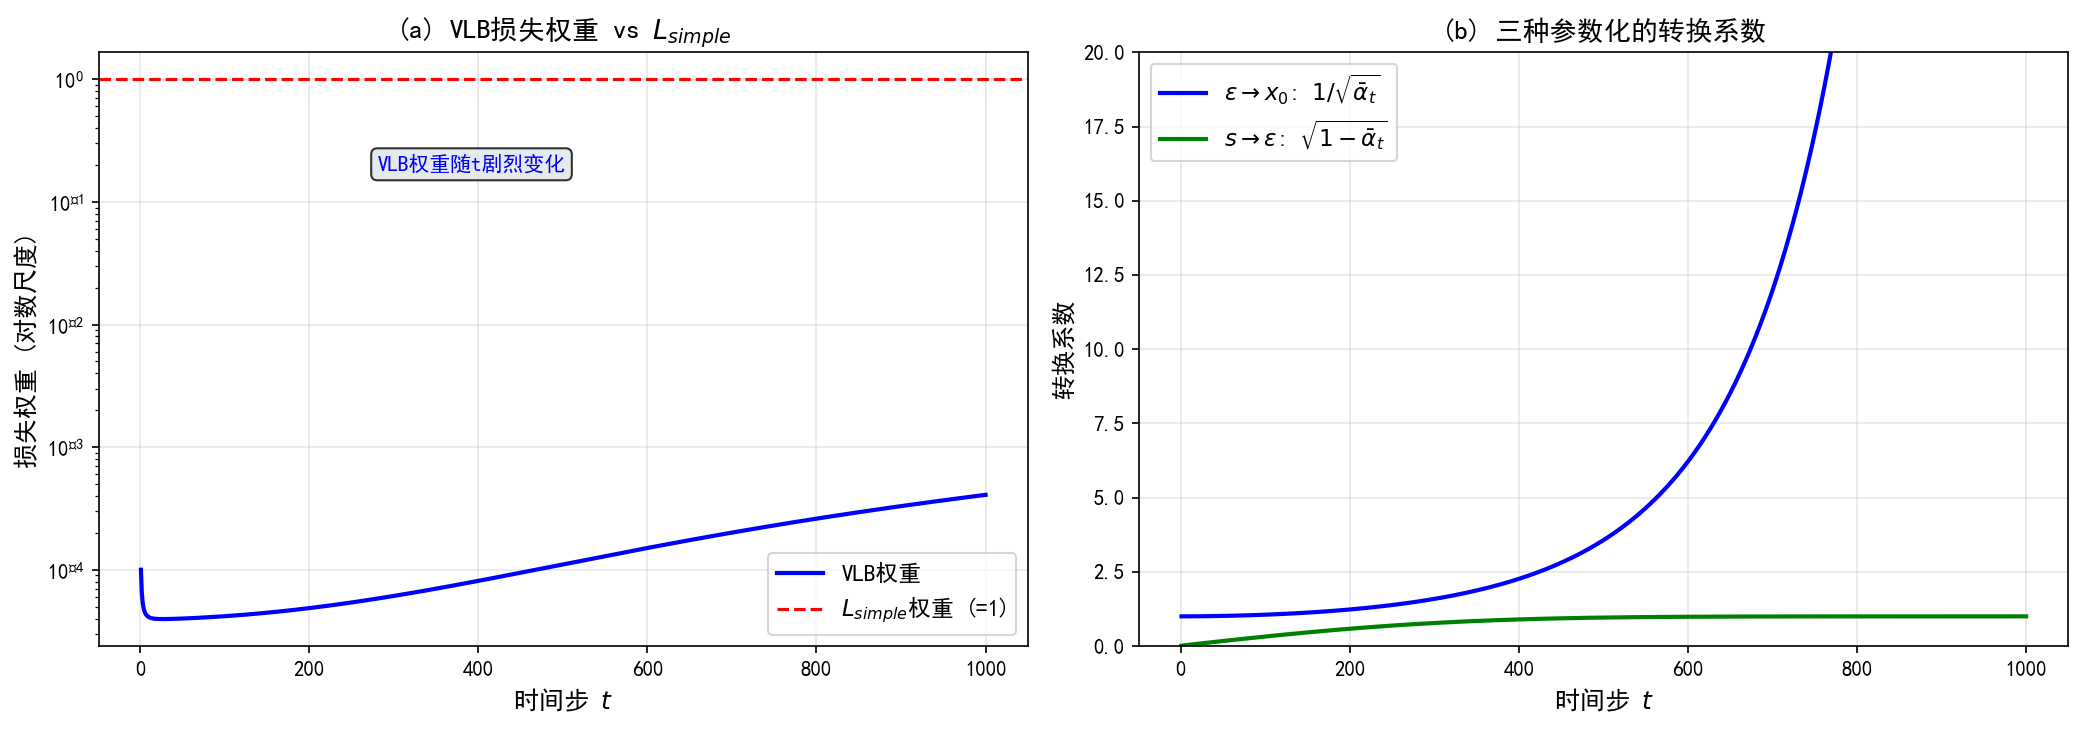
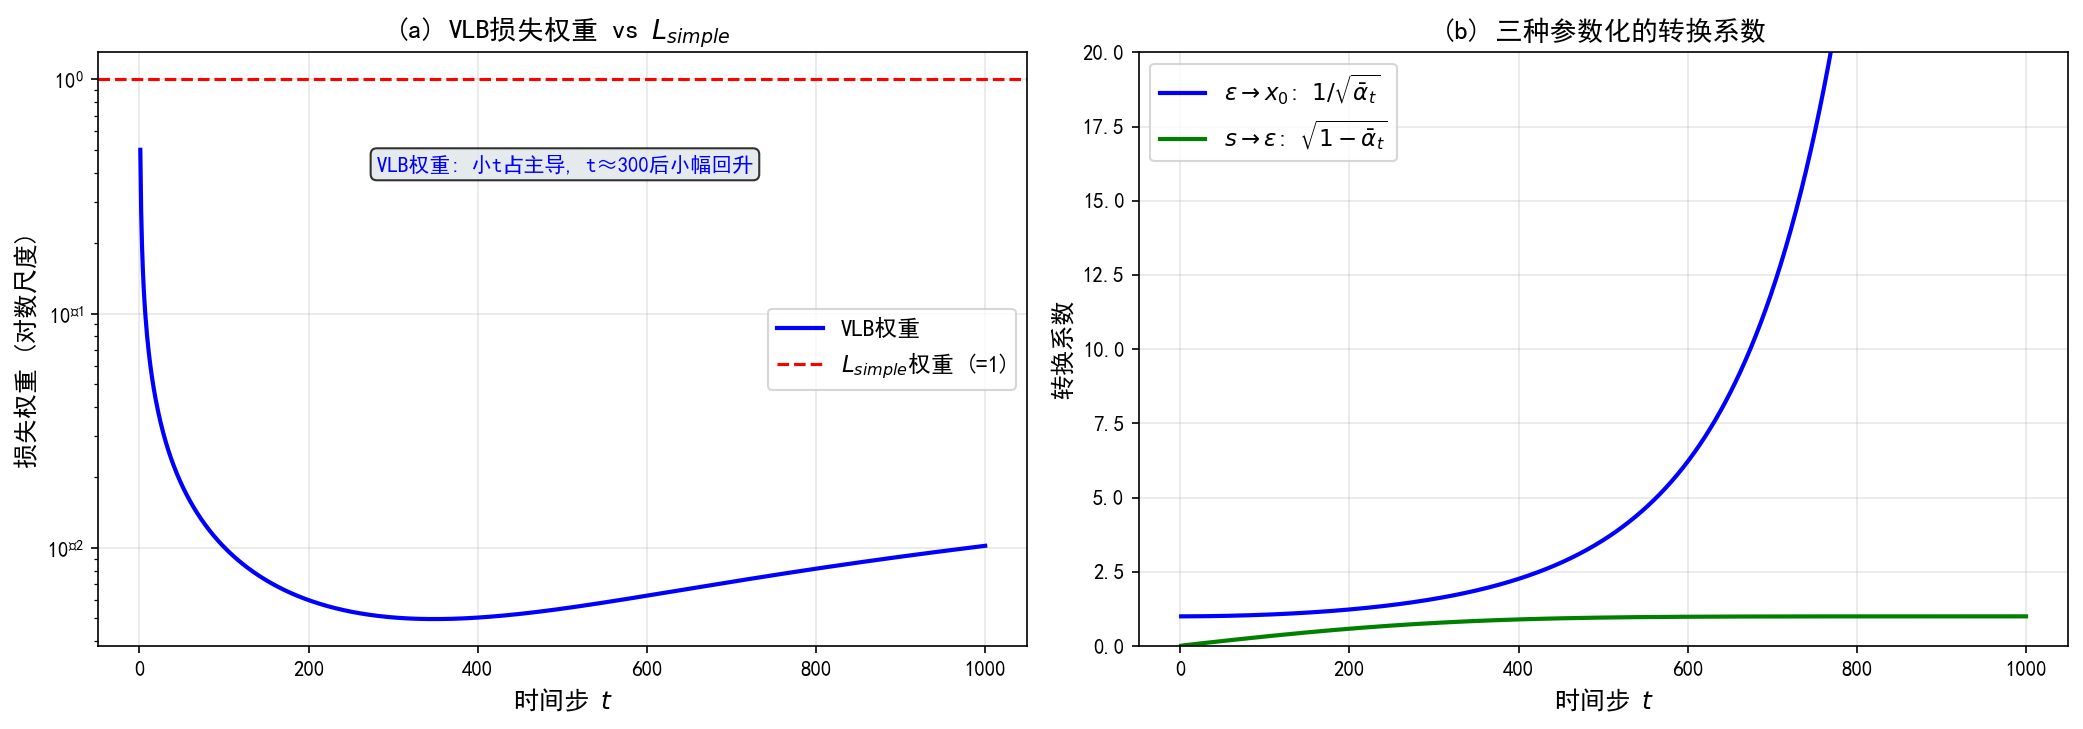
1

diff --git a/第10章 层级VAE与扩散的变分推导/第十章配套实验/实验10.3-1/10.3-1.py b/第10章 层级VAE与扩散的变分推导/第十章配套实验/实验10.3-1/10.3-1.py
@@ -112,11 +112,12 @@ print("    t      真实mu_t      x0-pred      eps-pred       score")
 print("-" * 70)
 
 for t_idx in [10, 100, 500, 900]:
-    t = t_idx
-    ab = alpha_bars[t]
-    a = alphas[t]
-    ab_prev = alpha_bars_prev[t]
-    b = betas[t]
+    # 注意：Python索引从0开始，时间步t从1开始，所以索引为t-1
+    idx = t_idx - 1
+    ab = alpha_bars[idx]
+    a = alphas[idx]
+    ab_prev = alpha_bars_prev[idx]
+    b = betas[idx]
 
     # 构造x_t
     x_t = torch.sqrt(ab) * x0_test + torch.sqrt(1 - ab) * eps_test
@@ -162,26 +163,34 @@ print("  VLB目标中的均值匹配项有权重:")
 print("  L_{t-1} ∝ (1-alpha_t)^2 / (alpha_t(1-ab_t)) * ||eps - hat_eps||^2")
 print("  L_simple对所有时间步赋等权重1，这是Ho et al. 2020的关键简化")
 
-x0_loss = torch.randn(100, 2)
-eps_loss = torch.randn_like(x0_loss)
-
 print("\n不同时间步的VLB权重:")
-print("    t       ab_t       VLB权重     L_simple权重     比值")
+print("    t       ab_t       VLB权重     L_simple权重   相对t=1")
 print("-" * 55)
 
+# 先计算t=1的权重作为基准
+weight_t1 = betas[0] / (2 * alphas[0] * (1 - alpha_bars[0]))
+
 for t_idx in [1, 10, 50, 100, 300, 500, 700, 900, 999]:
-    t = t_idx
-    ab = alpha_bars[t]
-    a = alphas[t]
+    # 注意：Python索引从0开始，时间步t从1开始，所以索引为t-1
+    idx = t_idx - 1
+    ab = alpha_bars[idx]
+    a = alphas[idx]
+    b = betas[idx]
 
-    # VLB权重系数: (1-alpha_t)^2 / (alpha_t(1-ab_t))
-    weight_vlb = (1 - a) ** 2 / (a * (1 - ab))
+    # VLB权重系数: 根据Ho et al. 2020 eq.14，使用σ_t²=β_t归一化
+    # L_{t-1} ∝ 1/(2σ_t²) · β_t²/(α_t(1-ᾱ_t)) · ||ε-ε_θ||²
+    # 取σ_t²=β_t时，权重系数 = β_t/(2α_t(1-ᾱ_t))
+    weight_vlb = b / (2 * a * (1 - ab))
 
-    print(str(t_idx).rjust(5) + "  " + str(round(ab.item(), 6)).rjust(10) + "  " + str(round(weight_vlb.item(), 6)).rjust(12) + "       1.000000      " + str(round(weight_vlb.item(), 4)).rjust(8))
+    # 计算相对于t=1的权重比值
+    ratio_to_t1 = weight_vlb / weight_t1
+
+    print(str(t_idx).rjust(5) + "  " + str(round(ab.item(), 6)).rjust(10) + "  " + str(round(weight_vlb.item(), 6)).rjust(12) + "       1.000000      " + str(round(ratio_to_t1.item(), 4)).rjust(8))
 
 print("\n关键观察:")
-print("  - t小(1-50): 权重极大 → 早期时间步对VLB贡献大")
-print("  - t大(700+): 权重极小 → 晚期时间步对VLB贡献小")
+print("  - t小(1-100): 权重随t增大而急剧下降(约100倍)，早期时间步主导VLB目标")
+print("  - t中段(t≈300附近): 权重达到谷值，对VLB贡献最小")
+print("  - t大(500+): 权重缓慢回升，但整体仍远小于t=1时的水平")
 print("  - L_simple对所有t赋等权重1，这是Ho et al. 2020的关键简化")
 print("  - 实际效果: L_simple忽略权重差异，但训练更稳定（10.3节）")
 
@@ -204,7 +213,9 @@ print("    t     ||x0-hat_x0||范围   ||eps-hat_eps||范围")
 print("-" * 45)
 
 for t_idx in [10, 100, 500, 900]:
-    ab = alpha_bars[t_idx]
+    # 注意：Python索引从0开始，时间步t从1开始，所以索引为t-1
+    idx = t_idx - 1
+    ab = alpha_bars[idx]
     # 假设预测误差为1
     err_eps = 1.0
     # 转换到x0空间的误差
@@ -229,7 +240,8 @@ fig, axes = plt.subplots(1, 2, figsize=(14, 5))
 
 # (a) VLB权重 vs L_simple权重
 ax = axes[0]
-weights = (1 - alphas) ** 2 / (alphas * (1 - alpha_bars))
+# 修正后的VLB权重公式：使用σ_t²=β_t归一化
+weights = betas / (2 * alphas * (1 - alpha_bars))
 ax.semilogy(range(1, T + 1), weights.numpy(), 'b-', linewidth=2, label='VLB权重')
 ax.axhline(1, color='r', linestyle='--', linewidth=1.5, label='$L_{simple}$权重 (=1)')
 ax.set_xlabel('时间步 $t$', fontsize=12)
@@ -237,7 +249,7 @@ ax.set_ylabel('损失权重 (对数尺度)', fontsize=12)
 ax.set_title('(a) VLB损失权重 vs $L_{simple}$', fontsize=13)
 ax.legend(fontsize=11)
 ax.grid(True, alpha=0.3)
-ax.annotate('VLB权重随t剧烈变化', xy=(0.3, 0.8), xycoords='axes fraction',
+ax.annotate('VLB权重: 小t占主导, t≈300后小幅回升', xy=(0.3, 0.8), xycoords='axes fraction',
             fontsize=10, color='blue',
             bbox=dict(boxstyle='round,pad=0.3', facecolor='#dfe6e9', alpha=0.8))
 
@@ -279,8 +291,8 @@ print("   - 转换关系:")
 print("     x0 = (x_t - sqrt(1-ab_t)·eps) / sqrt(ab_t)")
 print("     s = -eps / sqrt(1-ab_t)")
 print("\n2. VLB权重分析 (步骤2)")
-print("   - VLB权重 w_t = (1-alpha_t)^2 / (alpha_t(1-ab_t))")
-print("   - t小: 权重极大; t大: 权重极小")
+print("   - VLB权重 w_t = β_t / (2α_t(1-ᾱ_t))  (使用σ_t²=β_t归一化)")
+print("   - 权重呈U形: t小急剧下降，t≈300谷值，t大缓慢回升")
 print("   - L_simple对所有t赋等权重1")
 print("\n3. eps-prediction的优势 (步骤3)")
 print("   - 目标函数简单: ||eps - hat_eps||^2")

diff --git a/第10章 层级VAE与扩散的变分推导/第十章配套实验/实验10.4-1/10.4-1.py b/第10章 层级VAE与扩散的变分推导/第十章配套实验/实验10.4-1/10.4-1.py
@@ -131,10 +131,10 @@ print("  用于确定性采样和似然计算")
 
 
 # ============================================================
-# 步骤3：层级ELBO→VLB对应关系
+# 步骤3：边际分布演化与连续极限
 # ============================================================
 print("\n" + "="*60)
-print("步骤3：层级ELBO→VLB对应关系")
+print("步骤3：边际分布演化与连续极限")
 print("="*60)
 print("\n[对应关系表]")
 print("""
@@ -153,22 +153,25 @@ ELBO                   →  VLB
   → 扩散模型的"推断"无需训练，VLB只优化解码器（去噪网络）
 """)
 
-# 数值验证: 不同L下的ELBO近似
+# 数值验证: 不同L下的边际分布到先验KL距离积分
 np.random.seed(42)
 # 简化的2D高斯混合数据
 x0_gmm = np.vstack([np.random.randn(500, 2) * 0.5 + [1, 0],
                      np.random.randn(500, 2) * 0.5 + [-1, 0]])
 
-print("不同层级数L下的ELBO近似（2D高斯混合, beta_total=1.0）:")
-print("     L      KL总和估计      每步beta")
-print("-" * 35)
+print("\n[数值验证] 边际分布演化: KL(q(x_t|x_0) || N(0,I))的积分收敛")
+print("  说明: 这衡量每一层边际分布到标准正态先验的距离")
+print("       L增大→积分收敛，体现离散到连续极限的数值稳定性")
+print("\n不同层级数L下的KL积分估计（2D高斯混合, beta_total=1.0）:")
+print("     L      KL积分估计      每步beta")
+print("-" * 40)
 
 for L in [5, 10, 50, 100]:
     dt = 1.0 / L
     beta_step = dt
     alpha_step = 1 - beta_step
 
-    # 简单估计: KL项的总和
+    # 简单估计: 边际分布到先验的KL距离积分（黎曼和形式）
     total_kl = 0
     for t in range(1, L + 1):
         ab_t = alpha_step ** t
@@ -179,11 +182,13 @@ for L in [5, 10, 50, 100]:
         mean_sq = ab_t * (mu2 + sigma2) + (1 - ab_t)
         log_var = np.log(ab_t * sigma2 + (1 - ab_t))
         kl_t = 0.5 * (mean_sq - 1 - log_var)
-        total_kl += kl_t
+        # 关键修正：添加步长dt归一化，形成黎曼和逼近积分
+        total_kl += kl_t * dt
 
     print(str(L).rjust(6) + "        " + str(round(total_kl, 4)).rjust(12) + "        " + str(round(beta_step, 6)).rjust(10))
 
-print("\n→ L增大时ELBO(=负KL)逐渐稳定，对应10.4节L→∞的连续极限")
+print("\n→ L增大时KL积分逐渐收敛，体现离散求和→连续积分的数值稳定性")
+print("  这验证了离散层级过程→VP-SDE连续极限的数学合理性")
 
 
 # ============================================================
@@ -243,12 +248,13 @@ alphas_linear = 1.0 - betas_linear
 alpha_bars_linear = torch.cumprod(alphas_linear, dim=0)
 
 # 改进调度 (cosine schedule)
-def cosine_beta_schedule(t, s=0.008):
-    """Cosine schedule as proposed in improved DDPM"""
-    return torch.cos((t + s) / (1 + s) * np.pi / 2) ** 2
+def cosine_alpha_bar_schedule(t, s=0.008):
+    """ᾱ(t)调度函数，来自Improved DDPM (Nichol & Dhariwal 2021)"""
+    f = lambda x: torch.cos((x + s) / (1 + s) * np.pi / 2) ** 2
+    return f(t) / f(torch.zeros_like(t))  # 归一化保证ᾱ(0)=1
 
 t_norm = torch.linspace(0, 1, T)
-alpha_bars_cosine = cosine_beta_schedule(t_norm)
+alpha_bars_cosine = cosine_alpha_bar_schedule(t_norm)
 
 ax.plot(range(1, T+1), alpha_bars_linear.numpy(), 'b-', linewidth=2, label='DDPM线性调度')
 ax.plot(range(1, T+1), alpha_bars_cosine.numpy(), 'g-', linewidth=2, label='Cosine调度')
@@ -304,7 +310,7 @@ print("\n2. VP-SDE形式 (步骤2)")
 print("   - 前向SDE: dx = -beta(t)/2 · x dt + sqrt(beta(t)) dW")
 print("   - 边际分布: ab(t) = exp(-int_0^t beta(s) ds)")
 print("   - 逆向SDE: 由得分函数或eps-prediction驱动")
-print("\n3. 层级ELBO→VLB对应 (步骤3)")
+print("\n3. 边际分布演化与连续极限 (步骤3)")
 print("   - 扩散模型 = 固定编码器的层级VAE连续极限")
 print("   - 编码器固定 → 无需训练推断网络")
 print("   - 只优化解码器（去噪网络）")
